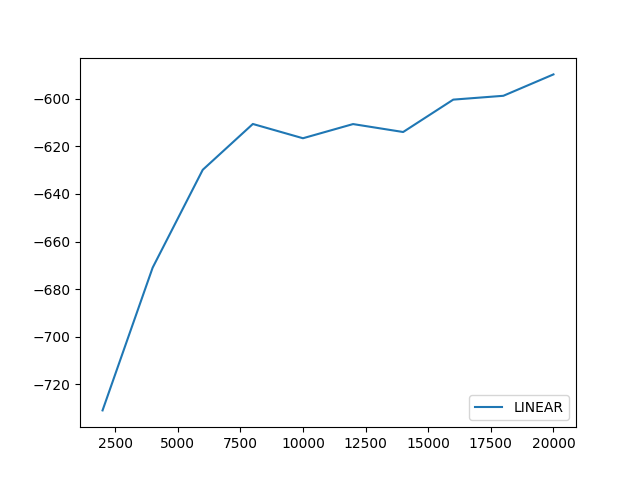
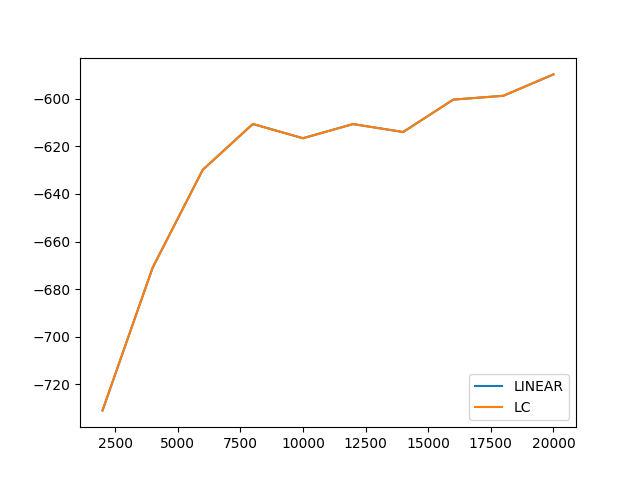
First test: 2e4 similar

diff --git a/baselines/ppo1/mlp_policy.py b/baselines/ppo1/mlp_policy.py
@@ -2,7 +2,8 @@ from baselines.common.mpi_running_mean_std import RunningMeanStd
 import baselines.common.tf_util as U
 import tensorflow as tf
 import gym
-from baselines.common.distributions import make_pdtype
+from baselines.common.distributions import make_pdtype, CategoricalPdType
+
 
 class MlpPolicy(object):
     recurrent = False
@@ -14,6 +15,9 @@ class MlpPolicy(object):
     def _init(self, ob_space, ac_space, hid_size, num_hid_layers, gaussian_fixed_var=True):
         assert isinstance(ob_space, gym.spaces.Box)
 
+        num_actors = 1
+
+        self.cpdtype = cpdtype = CategoricalPdType(num_actors)
         self.pdtype = pdtype = make_pdtype(ac_space)
         sequence_length = None
 
@@ -29,6 +33,19 @@ class MlpPolicy(object):
                 last_out = tf.nn.tanh(tf.layers.dense(last_out, hid_size, name="fc%i"%(i+1), kernel_initializer=U.normc_initializer(1.0)))
             self.vpred = tf.layers.dense(last_out, 1, name='final', kernel_initializer=U.normc_initializer(1.0))[:,0]
 
+        '''with tf.variable_scope('dec'):
+            last_out = obz
+            last_out = tf.layers.dense(last_out, hid_size, name='dec', kernel_initializer=U.normc_initializer(1.0))
+
+            # get the hidden_dicision
+            # TODO: compare: the output layer be cpdtype.param_shape()[0]//2 or hid_size?
+            hidden_decision = tf.layers.dense(last_out, num_actors, name="final", kernel_initializer=U.normc_initializer(0.01))
+
+        # get the choice probability distribution
+        self.cpd = cpdtype.pdfromflat(hidden_decision)
+        #TODO: not sure of sampling or mode
+        self.choice = ch =self.cpd.sample()
+'''
         with tf.variable_scope('pol'):
             last_out = obz
             for i in range(num_hid_layers):

diff --git a/plot.py b/plot.py
@@ -8,12 +8,14 @@ for seed in seeds:
     for reward_scale in reward_scales:
         linear_rewards = np.loadtxt('./baselines/ppo1/data/'+env_id+'_s'+str(seed)+'_r'+str(reward_scale)+'_rew.txt')* (1 / reward_scale)
         linear_ts = np.loadtxt('./baselines/ppo1/data/'+env_id+'_s'+str(seed)+'_r'+str(reward_scale)+'_ts.txt')
-
+        lc_rewards = np.loadtxt('./baselines/ppo1/data/'+env_id+'_s'+str(seed)+'_r'+str(reward_scale)+'_rew_lc.txt')* (1 / reward_scale)
+        lc_ts = np.loadtxt('./baselines/ppo1/data/'+env_id+'_s'+str(seed)+'_r'+str(reward_scale)+'_ts_lc.txt')
 
 
         fig, ax = plt.subplots()
 
         ax.plot(linear_ts, linear_rewards,  label='LINEAR')
+        ax.plot(lc_ts, lc_rewards,  label='LC')
 
         legend = ax.legend(loc='lower right')
 

diff --git a/baselines/ppo1/pposgd_simple.py b/baselines/ppo1/pposgd_simple.py
@@ -220,8 +220,8 @@ def learn(env, policy_fn, *,
     seed = 1
     scale = 0.1
     env_name = 'HalfCheetah-v2'
-    np.savetxt('./baselines/ppo1/data/'+env_name+'_s'+str(seed)+'_r'+str(scale)+'_rew.txt',np.asarray(reward_list))
-    np.savetxt('./baselines/ppo1/data/'+env_name+'_s'+str(seed)+'_r'+str(scale)+'_ts.txt',np.asarray(timestep_list))    
+    np.savetxt('./baselines/ppo1/data/'+env_name+'_s'+str(seed)+'_r'+str(scale)+'_rew_lc.txt',np.asarray(reward_list))
+    np.savetxt('./baselines/ppo1/data/'+env_name+'_s'+str(seed)+'_r'+str(scale)+'_ts_lc.txt',np.asarray(timestep_list))    
 
     return pi
 
